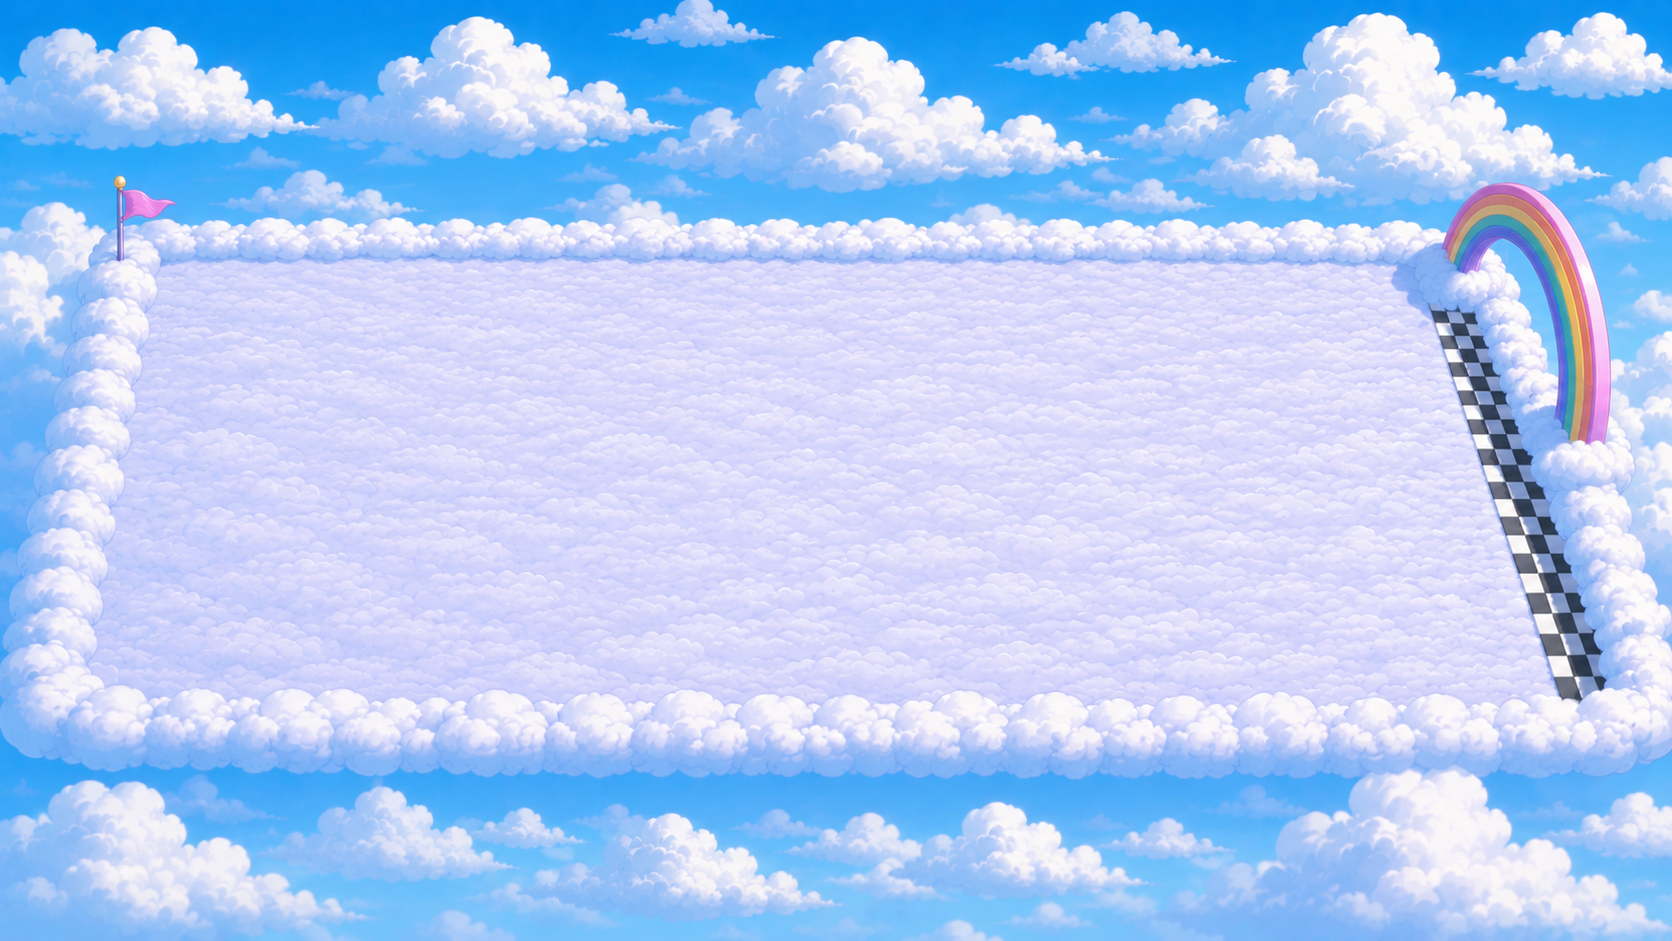
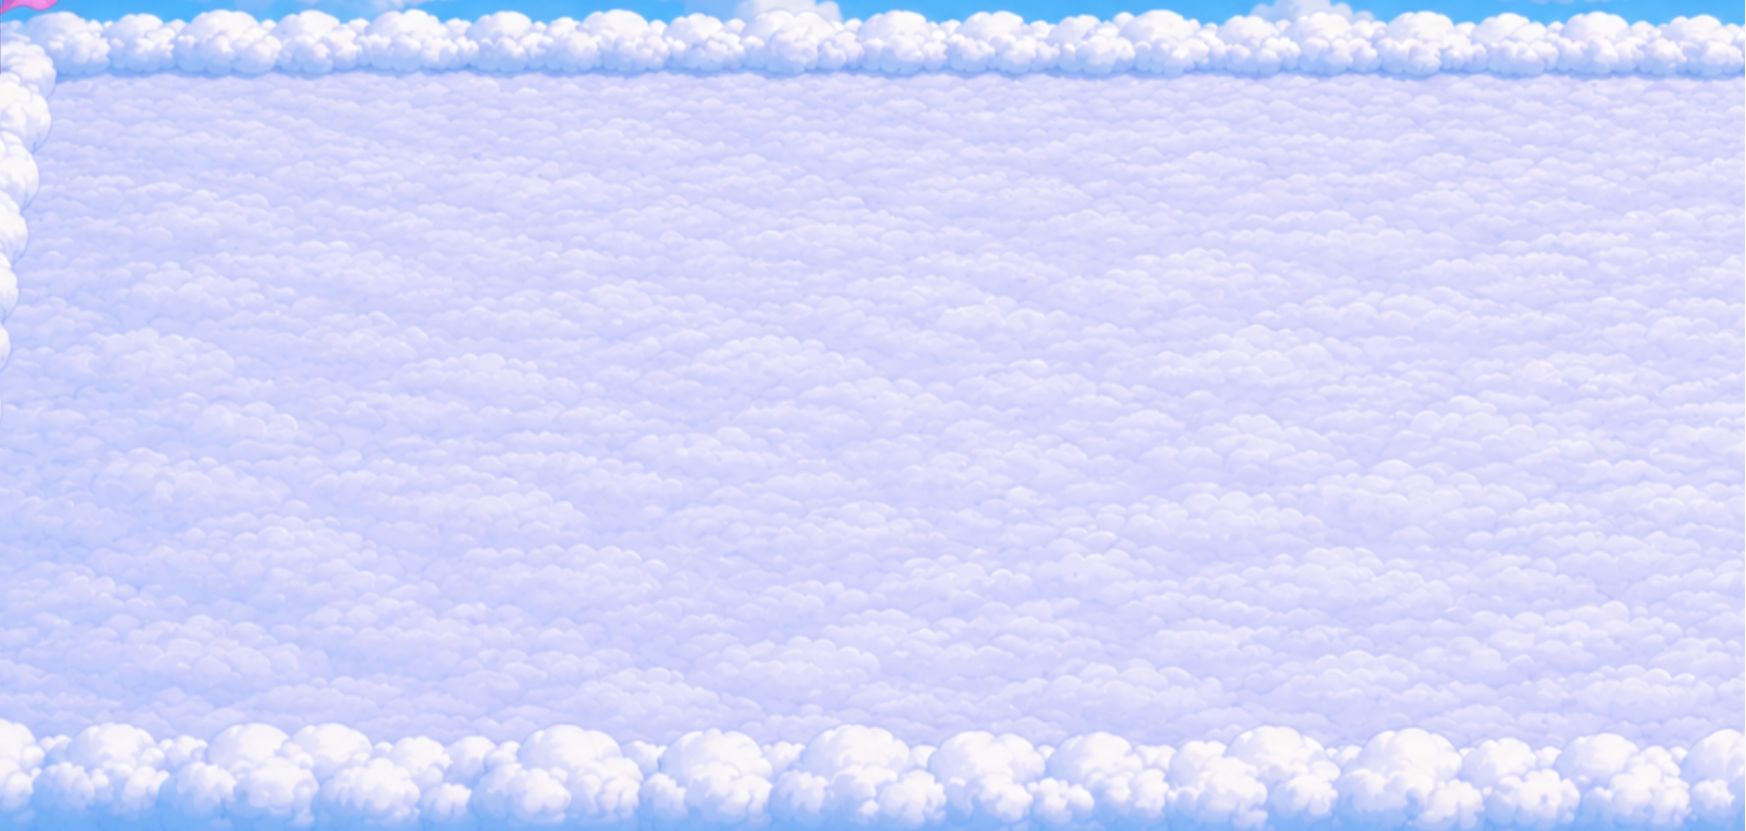
mudança na imagem da corrida

diff --git a/my little turfe/escolher cavalos.css b/my little turfe/escolher cavalos.css
@@ -168,18 +168,12 @@ body{
 
 #pista{
     width:1400px;
-    height:700px;
+    height:800px;
     position:relative;
     overflow:hidden;
 
-    background:
-    repeating-linear-gradient(
-        to bottom,
-        #4CAF50 0px,
-        #4CAF50 20px,
-        #43A047 20px,
-        #43A047 40px
-    );
+    background-image: url("imagens/campo.png");
+    ;
 
     border:6px solid #3e2723;
 }
@@ -189,7 +183,7 @@ body{
     top:0;
 
     width:20px;
-    height:100%;
+    height:100%;        
 
     background:
     repeating-linear-gradient(